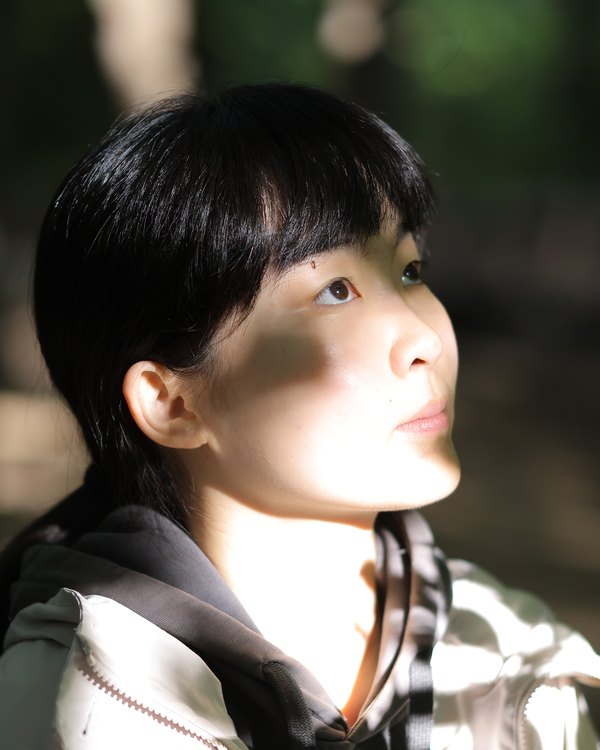
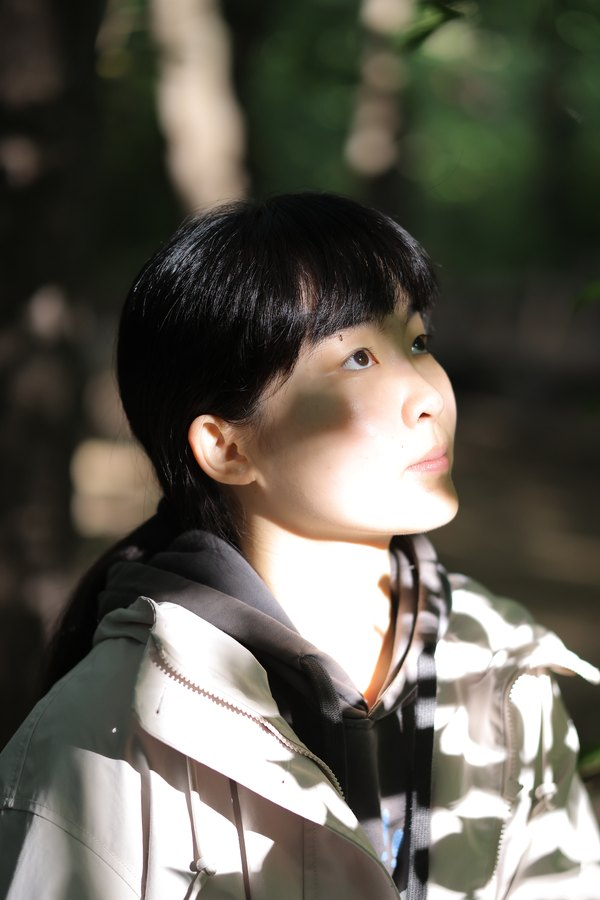
Use full uncropped photo

diff --git a/index.html b/index.html
@@ -8,7 +8,7 @@
   <link rel="preconnect" href="https://fonts.googleapis.com" />
   <link rel="preconnect" href="https://fonts.gstatic.com" crossorigin />
   <link href="https://fonts.googleapis.com/css2?family=Inter:wght@400;500;600;700&family=JetBrains+Mono:wght@400;500&display=swap" rel="stylesheet" />
-  <link rel="stylesheet" href="css/style.css?v=2" />
+  <link rel="stylesheet" href="css/style.css?v=3" />
 </head>
 <body>
   <!-- ============ NAV ============ -->

diff --git a/css/style.css b/css/style.css
@@ -143,7 +143,7 @@ strong { color: var(--ink); font-weight: 600; }
 .avatar {
   position: relative;
   width: 172px;
-  aspect-ratio: 4 / 5;
+  aspect-ratio: 2 / 3;
   border: 3px solid var(--cyan);
   border-bottom-width: 8px;
   border-bottom-color: var(--sun);
